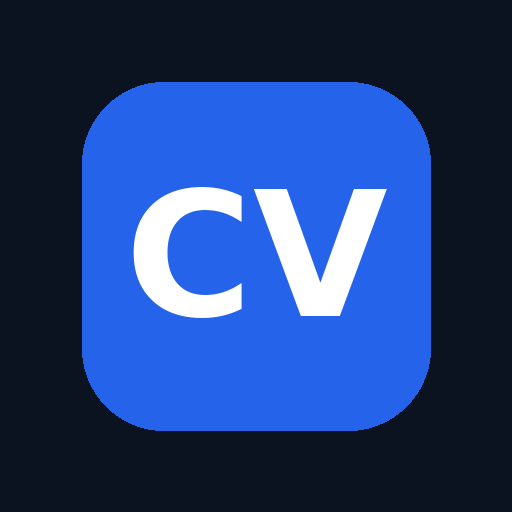
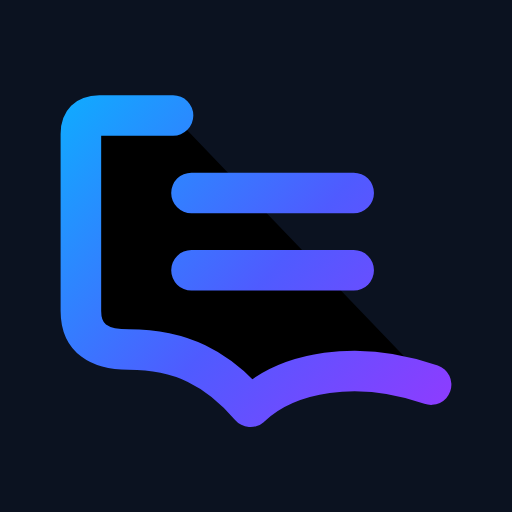
Add files via upload

diff --git a/builder.html b/builder.html
@@ -8,12 +8,13 @@
 <link href="https://fonts.googleapis.com/css2?family=Hind+Siliguri:wght@400;500;600;700&display=swap" rel="stylesheet">
 <script>(function(){try{var k=localStorage.getItem("cvtheme");if(!k)k=matchMedia("(prefers-color-scheme:dark)").matches?"dark":"light";document.documentElement.dataset.theme=k}catch(e){}})()</script>
 <meta property="og:type" content="website"><meta property="og:site_name" content="CV Studio by Qodrix"><meta property="og:title" content="CV Studio | Free CV Maker (Bangla and English)"><meta property="og:description" content="Build a professional CV in 10 minutes. Free, no login, ATS friendly."><meta property="og:image" content="https://qodrixhq.github.io/cv-studio/og.png"><meta name="twitter:card" content="summary_large_image"><meta name="theme-color" content="#0B1220">
-<link rel="manifest" href="manifest.webmanifest"><link rel="apple-touch-icon" href="icon-192.png">
-<link rel="stylesheet" href="style.css?v=13">
+<link rel="icon" href="favicon.svg" type="image/svg+xml"><link rel="icon" href="icon-192.png" sizes="192x192" type="image/png">
+<link rel="manifest" href="manifest.webmanifest"><link rel="apple-touch-icon" href="apple-touch-icon.png">
+<link rel="stylesheet" href="style.css?v=14">
 </head>
 <body  data-v="e">
 <header>
- <a class="logo" href="index.html"><span class="mark"></span><span id="tt"></span></a>
+ <a class="logo" href="index.html" aria-label="CV Studio by Qodrix"><svg class="lg-m" viewBox="0 0 214 190" fill="none" aria-hidden="true"><defs><linearGradient id="lgg" x1="8" y1="8" x2="204" y2="176" gradientUnits="userSpaceOnUse"><stop stop-color="#12A8FF"/><stop offset=".55" stop-color="#4F5BFF"/><stop offset="1" stop-color="#8B3DFF"/></linearGradient></defs><g stroke="url(#lgg)" stroke-width="22" stroke-linecap="round" stroke-linejoin="round"><path class="lgp" d="M62 16H22Q12 16 12 26V122C12 137 22 143 38 143C66 143 86 153 104 174C124 155 162 148 202 162"/><path class="lgp" d="M72 58H160M72 100H160"/></g></svg><span class="lg-t"><b>CV Studio</b><small>by Qodrix</small></span></a>
  <button class="btn ic" id="th" aria-label="Dark / Light"><svg class="i-moon" width="20" height="20" viewBox="0 0 24 24" fill="none" stroke="currentColor" stroke-width="2" stroke-linecap="round" stroke-linejoin="round" aria-hidden="true"><path d="M21 12.8A9 9 0 1111.2 3a7 7 0 009.8 9.8z"/></svg><svg class="i-sun" width="20" height="20" viewBox="0 0 24 24" fill="none" stroke="currentColor" stroke-width="2" stroke-linecap="round" stroke-linejoin="round" aria-hidden="true"><circle cx="12" cy="12" r="4"/><path d="M12 2v2M12 20v2M4.9 4.9l1.4 1.4M17.7 17.7l1.4 1.4M2 12h2M20 12h2M4.9 19.1l1.4-1.4M17.7 6.3l1.4-1.4"/></svg></button>
  <button class="btn" id="lg"></button>
  <button class="btn p" id="pdf"></button>

diff --git a/admin.html b/admin.html
@@ -8,12 +8,13 @@
 <link href="https://fonts.googleapis.com/css2?family=Hind+Siliguri:wght@400;500;600;700&display=swap" rel="stylesheet">
 <script>(function(){try{var k=localStorage.getItem("cvtheme");if(!k)k=matchMedia("(prefers-color-scheme:dark)").matches?"dark":"light";document.documentElement.dataset.theme=k}catch(e){}})()</script>
 <meta property="og:type" content="website"><meta property="og:site_name" content="CV Studio by Qodrix"><meta property="og:title" content="CV Studio | Free CV Maker (Bangla and English)"><meta property="og:description" content="Build a professional CV in 10 minutes. Free, no login, ATS friendly."><meta property="og:image" content="https://qodrixhq.github.io/cv-studio/og.png"><meta name="twitter:card" content="summary_large_image"><meta name="theme-color" content="#0B1220">
-<link rel="manifest" href="manifest.webmanifest"><link rel="apple-touch-icon" href="icon-192.png">
-<link rel="stylesheet" href="style.css?v=13">
+<link rel="icon" href="favicon.svg" type="image/svg+xml"><link rel="icon" href="icon-192.png" sizes="192x192" type="image/png">
+<link rel="manifest" href="manifest.webmanifest"><link rel="apple-touch-icon" href="apple-touch-icon.png">
+<link rel="stylesheet" href="style.css?v=14">
 </head>
 <body>
 <header>
- <a class="logo" href="index.html"><span class="mark"></span><span id="tt"></span></a>
+ <a class="logo" href="index.html" aria-label="CV Studio by Qodrix"><svg class="lg-m" viewBox="0 0 214 190" fill="none" aria-hidden="true"><defs><linearGradient id="lgg" x1="8" y1="8" x2="204" y2="176" gradientUnits="userSpaceOnUse"><stop stop-color="#12A8FF"/><stop offset=".55" stop-color="#4F5BFF"/><stop offset="1" stop-color="#8B3DFF"/></linearGradient></defs><g stroke="url(#lgg)" stroke-width="22" stroke-linecap="round" stroke-linejoin="round"><path class="lgp" d="M62 16H22Q12 16 12 26V122C12 137 22 143 38 143C66 143 86 153 104 174C124 155 162 148 202 162"/><path class="lgp" d="M72 58H160M72 100H160"/></g></svg><span class="lg-t"><b>CV Studio</b><small>by Qodrix</small></span></a>
  <button class="btn ic" id="th" aria-label="Dark / Light"><svg class="i-moon" width="20" height="20" viewBox="0 0 24 24" fill="none" stroke="currentColor" stroke-width="2" stroke-linecap="round" stroke-linejoin="round" aria-hidden="true"><path d="M21 12.8A9 9 0 1111.2 3a7 7 0 009.8 9.8z"/></svg><svg class="i-sun" width="20" height="20" viewBox="0 0 24 24" fill="none" stroke="currentColor" stroke-width="2" stroke-linecap="round" stroke-linejoin="round" aria-hidden="true"><circle cx="12" cy="12" r="4"/><path d="M12 2v2M12 20v2M4.9 4.9l1.4 1.4M17.7 17.7l1.4 1.4M2 12h2M20 12h2M4.9 19.1l1.4-1.4M17.7 6.3l1.4-1.4"/></svg></button>
  <button class="btn" id="lg"></button>
  

diff --git a/ats.html b/ats.html
@@ -8,12 +8,13 @@
 <link href="https://fonts.googleapis.com/css2?family=Hind+Siliguri:wght@400;500;600;700&display=swap" rel="stylesheet">
 <script>(function(){try{var k=localStorage.getItem("cvtheme");if(!k)k=matchMedia("(prefers-color-scheme:dark)").matches?"dark":"light";document.documentElement.dataset.theme=k}catch(e){}})()</script>
 <meta property="og:type" content="website"><meta property="og:site_name" content="CV Studio by Qodrix"><meta property="og:title" content="CV Studio | Free CV Maker (Bangla and English)"><meta property="og:description" content="Build a professional CV in 10 minutes. Free, no login, ATS friendly."><meta property="og:image" content="https://qodrixhq.github.io/cv-studio/og.png"><meta name="twitter:card" content="summary_large_image"><meta name="theme-color" content="#0B1220">
-<link rel="manifest" href="manifest.webmanifest"><link rel="apple-touch-icon" href="icon-192.png">
-<link rel="stylesheet" href="style.css?v=13">
+<link rel="icon" href="favicon.svg" type="image/svg+xml"><link rel="icon" href="icon-192.png" sizes="192x192" type="image/png">
+<link rel="manifest" href="manifest.webmanifest"><link rel="apple-touch-icon" href="apple-touch-icon.png">
+<link rel="stylesheet" href="style.css?v=14">
 </head>
 <body>
 <header>
- <a class="logo" href="index.html"><span class="mark"></span><span id="tt"></span></a>
+ <a class="logo" href="index.html" aria-label="CV Studio by Qodrix"><svg class="lg-m" viewBox="0 0 214 190" fill="none" aria-hidden="true"><defs><linearGradient id="lgg" x1="8" y1="8" x2="204" y2="176" gradientUnits="userSpaceOnUse"><stop stop-color="#12A8FF"/><stop offset=".55" stop-color="#4F5BFF"/><stop offset="1" stop-color="#8B3DFF"/></linearGradient></defs><g stroke="url(#lgg)" stroke-width="22" stroke-linecap="round" stroke-linejoin="round"><path class="lgp" d="M62 16H22Q12 16 12 26V122C12 137 22 143 38 143C66 143 86 153 104 174C124 155 162 148 202 162"/><path class="lgp" d="M72 58H160M72 100H160"/></g></svg><span class="lg-t"><b>CV Studio</b><small>by Qodrix</small></span></a>
  <button class="btn ic" id="th" aria-label="Dark / Light"><svg class="i-moon" width="20" height="20" viewBox="0 0 24 24" fill="none" stroke="currentColor" stroke-width="2" stroke-linecap="round" stroke-linejoin="round" aria-hidden="true"><path d="M21 12.8A9 9 0 1111.2 3a7 7 0 009.8 9.8z"/></svg><svg class="i-sun" width="20" height="20" viewBox="0 0 24 24" fill="none" stroke="currentColor" stroke-width="2" stroke-linecap="round" stroke-linejoin="round" aria-hidden="true"><circle cx="12" cy="12" r="4"/><path d="M12 2v2M12 20v2M4.9 4.9l1.4 1.4M17.7 17.7l1.4 1.4M2 12h2M20 12h2M4.9 19.1l1.4-1.4M17.7 6.3l1.4-1.4"/></svg></button>
  <button class="btn" id="lg"></button>
  

diff --git a/contact.html b/contact.html
@@ -8,12 +8,13 @@
 <link href="https://fonts.googleapis.com/css2?family=Hind+Siliguri:wght@400;500;600;700&display=swap" rel="stylesheet">
 <script>(function(){try{var k=localStorage.getItem("cvtheme");if(!k)k=matchMedia("(prefers-color-scheme:dark)").matches?"dark":"light";document.documentElement.dataset.theme=k}catch(e){}})()</script>
 <meta property="og:type" content="website"><meta property="og:site_name" content="CV Studio by Qodrix"><meta property="og:title" content="CV Studio | Free CV Maker (Bangla and English)"><meta property="og:description" content="Build a professional CV in 10 minutes. Free, no login, ATS friendly."><meta property="og:image" content="https://qodrixhq.github.io/cv-studio/og.png"><meta name="twitter:card" content="summary_large_image"><meta name="theme-color" content="#0B1220">
-<link rel="manifest" href="manifest.webmanifest"><link rel="apple-touch-icon" href="icon-192.png">
-<link rel="stylesheet" href="style.css?v=13">
+<link rel="icon" href="favicon.svg" type="image/svg+xml"><link rel="icon" href="icon-192.png" sizes="192x192" type="image/png">
+<link rel="manifest" href="manifest.webmanifest"><link rel="apple-touch-icon" href="apple-touch-icon.png">
+<link rel="stylesheet" href="style.css?v=14">
 </head>
 <body>
 <header>
- <a class="logo" href="index.html"><span class="mark"></span><span id="tt"></span></a>
+ <a class="logo" href="index.html" aria-label="CV Studio by Qodrix"><svg class="lg-m" viewBox="0 0 214 190" fill="none" aria-hidden="true"><defs><linearGradient id="lgg" x1="8" y1="8" x2="204" y2="176" gradientUnits="userSpaceOnUse"><stop stop-color="#12A8FF"/><stop offset=".55" stop-color="#4F5BFF"/><stop offset="1" stop-color="#8B3DFF"/></linearGradient></defs><g stroke="url(#lgg)" stroke-width="22" stroke-linecap="round" stroke-linejoin="round"><path class="lgp" d="M62 16H22Q12 16 12 26V122C12 137 22 143 38 143C66 143 86 153 104 174C124 155 162 148 202 162"/><path class="lgp" d="M72 58H160M72 100H160"/></g></svg><span class="lg-t"><b>CV Studio</b><small>by Qodrix</small></span></a>
  <button class="btn ic" id="th" aria-label="Dark / Light"><svg class="i-moon" width="20" height="20" viewBox="0 0 24 24" fill="none" stroke="currentColor" stroke-width="2" stroke-linecap="round" stroke-linejoin="round" aria-hidden="true"><path d="M21 12.8A9 9 0 1111.2 3a7 7 0 009.8 9.8z"/></svg><svg class="i-sun" width="20" height="20" viewBox="0 0 24 24" fill="none" stroke="currentColor" stroke-width="2" stroke-linecap="round" stroke-linejoin="round" aria-hidden="true"><circle cx="12" cy="12" r="4"/><path d="M12 2v2M12 20v2M4.9 4.9l1.4 1.4M17.7 17.7l1.4 1.4M2 12h2M20 12h2M4.9 19.1l1.4-1.4M17.7 6.3l1.4-1.4"/></svg></button>
  <button class="btn" id="lg"></button>
  

diff --git a/cover-letter.html b/cover-letter.html
@@ -8,12 +8,13 @@
 <link href="https://fonts.googleapis.com/css2?family=Hind+Siliguri:wght@400;500;600;700&display=swap" rel="stylesheet">
 <script>(function(){try{var k=localStorage.getItem("cvtheme");if(!k)k=matchMedia("(prefers-color-scheme:dark)").matches?"dark":"light";document.documentElement.dataset.theme=k}catch(e){}})()</script>
 <meta property="og:type" content="website"><meta property="og:site_name" content="CV Studio by Qodrix"><meta property="og:title" content="CV Studio | Free CV Maker (Bangla and English)"><meta property="og:description" content="Build a professional CV in 10 minutes. Free, no login, ATS friendly."><meta property="og:image" content="https://qodrixhq.github.io/cv-studio/og.png"><meta name="twitter:card" content="summary_large_image"><meta name="theme-color" content="#0B1220">
-<link rel="manifest" href="manifest.webmanifest"><link rel="apple-touch-icon" href="icon-192.png">
-<link rel="stylesheet" href="style.css?v=13">
+<link rel="icon" href="favicon.svg" type="image/svg+xml"><link rel="icon" href="icon-192.png" sizes="192x192" type="image/png">
+<link rel="manifest" href="manifest.webmanifest"><link rel="apple-touch-icon" href="apple-touch-icon.png">
+<link rel="stylesheet" href="style.css?v=14">
 </head>
 <body>
 <header>
- <a class="logo" href="index.html"><span class="mark"></span><span id="tt"></span></a>
+ <a class="logo" href="index.html" aria-label="CV Studio by Qodrix"><svg class="lg-m" viewBox="0 0 214 190" fill="none" aria-hidden="true"><defs><linearGradient id="lgg" x1="8" y1="8" x2="204" y2="176" gradientUnits="userSpaceOnUse"><stop stop-color="#12A8FF"/><stop offset=".55" stop-color="#4F5BFF"/><stop offset="1" stop-color="#8B3DFF"/></linearGradient></defs><g stroke="url(#lgg)" stroke-width="22" stroke-linecap="round" stroke-linejoin="round"><path class="lgp" d="M62 16H22Q12 16 12 26V122C12 137 22 143 38 143C66 143 86 153 104 174C124 155 162 148 202 162"/><path class="lgp" d="M72 58H160M72 100H160"/></g></svg><span class="lg-t"><b>CV Studio</b><small>by Qodrix</small></span></a>
  <button class="btn ic" id="th" aria-label="Dark / Light"><svg class="i-moon" width="20" height="20" viewBox="0 0 24 24" fill="none" stroke="currentColor" stroke-width="2" stroke-linecap="round" stroke-linejoin="round" aria-hidden="true"><path d="M21 12.8A9 9 0 1111.2 3a7 7 0 009.8 9.8z"/></svg><svg class="i-sun" width="20" height="20" viewBox="0 0 24 24" fill="none" stroke="currentColor" stroke-width="2" stroke-linecap="round" stroke-linejoin="round" aria-hidden="true"><circle cx="12" cy="12" r="4"/><path d="M12 2v2M12 20v2M4.9 4.9l1.4 1.4M17.7 17.7l1.4 1.4M2 12h2M20 12h2M4.9 19.1l1.4-1.4M17.7 6.3l1.4-1.4"/></svg></button>
  <button class="btn" id="lg"></button>
  

diff --git a/guide.html b/guide.html
@@ -8,12 +8,13 @@
 <link href="https://fonts.googleapis.com/css2?family=Hind+Siliguri:wght@400;500;600;700&display=swap" rel="stylesheet">
 <script>(function(){try{var k=localStorage.getItem("cvtheme");if(!k)k=matchMedia("(prefers-color-scheme:dark)").matches?"dark":"light";document.documentElement.dataset.theme=k}catch(e){}})()</script>
 <meta property="og:type" content="website"><meta property="og:site_name" content="CV Studio by Qodrix"><meta property="og:title" content="CV Studio | Free CV Maker (Bangla and English)"><meta property="og:description" content="Build a professional CV in 10 minutes. Free, no login, ATS friendly."><meta property="og:image" content="https://qodrixhq.github.io/cv-studio/og.png"><meta name="twitter:card" content="summary_large_image"><meta name="theme-color" content="#0B1220">
-<link rel="manifest" href="manifest.webmanifest"><link rel="apple-touch-icon" href="icon-192.png">
-<link rel="stylesheet" href="style.css?v=13">
+<link rel="icon" href="favicon.svg" type="image/svg+xml"><link rel="icon" href="icon-192.png" sizes="192x192" type="image/png">
+<link rel="manifest" href="manifest.webmanifest"><link rel="apple-touch-icon" href="apple-touch-icon.png">
+<link rel="stylesheet" href="style.css?v=14">
 </head>
 <body>
 <header>
- <a class="logo" href="index.html"><span class="mark"></span><span id="tt"></span></a>
+ <a class="logo" href="index.html" aria-label="CV Studio by Qodrix"><svg class="lg-m" viewBox="0 0 214 190" fill="none" aria-hidden="true"><defs><linearGradient id="lgg" x1="8" y1="8" x2="204" y2="176" gradientUnits="userSpaceOnUse"><stop stop-color="#12A8FF"/><stop offset=".55" stop-color="#4F5BFF"/><stop offset="1" stop-color="#8B3DFF"/></linearGradient></defs><g stroke="url(#lgg)" stroke-width="22" stroke-linecap="round" stroke-linejoin="round"><path class="lgp" d="M62 16H22Q12 16 12 26V122C12 137 22 143 38 143C66 143 86 153 104 174C124 155 162 148 202 162"/><path class="lgp" d="M72 58H160M72 100H160"/></g></svg><span class="lg-t"><b>CV Studio</b><small>by Qodrix</small></span></a>
  <button class="btn ic" id="th" aria-label="Dark / Light"><svg class="i-moon" width="20" height="20" viewBox="0 0 24 24" fill="none" stroke="currentColor" stroke-width="2" stroke-linecap="round" stroke-linejoin="round" aria-hidden="true"><path d="M21 12.8A9 9 0 1111.2 3a7 7 0 009.8 9.8z"/></svg><svg class="i-sun" width="20" height="20" viewBox="0 0 24 24" fill="none" stroke="currentColor" stroke-width="2" stroke-linecap="round" stroke-linejoin="round" aria-hidden="true"><circle cx="12" cy="12" r="4"/><path d="M12 2v2M12 20v2M4.9 4.9l1.4 1.4M17.7 17.7l1.4 1.4M2 12h2M20 12h2M4.9 19.1l1.4-1.4M17.7 6.3l1.4-1.4"/></svg></button>
  <button class="btn" id="lg"></button>
  

diff --git a/index.html b/index.html
@@ -8,12 +8,13 @@
 <link href="https://fonts.googleapis.com/css2?family=Hind+Siliguri:wght@400;500;600;700&display=swap" rel="stylesheet">
 <script>(function(){try{var k=localStorage.getItem("cvtheme");if(!k)k=matchMedia("(prefers-color-scheme:dark)").matches?"dark":"light";document.documentElement.dataset.theme=k}catch(e){}})()</script>
 <meta property="og:type" content="website"><meta property="og:site_name" content="CV Studio by Qodrix"><meta property="og:title" content="CV Studio | Free CV Maker (Bangla and English)"><meta property="og:description" content="Build a professional CV in 10 minutes. Free, no login, ATS friendly."><meta property="og:image" content="https://qodrixhq.github.io/cv-studio/og.png"><meta name="twitter:card" content="summary_large_image"><meta name="theme-color" content="#0B1220">
-<link rel="manifest" href="manifest.webmanifest"><link rel="apple-touch-icon" href="icon-192.png">
-<link rel="stylesheet" href="style.css?v=13">
+<link rel="icon" href="favicon.svg" type="image/svg+xml"><link rel="icon" href="icon-192.png" sizes="192x192" type="image/png">
+<link rel="manifest" href="manifest.webmanifest"><link rel="apple-touch-icon" href="apple-touch-icon.png">
+<link rel="stylesheet" href="style.css?v=14">
 </head>
 <body>
 <header>
- <a class="logo" href="index.html"><span class="mark"></span><span id="tt"></span></a>
+ <a class="logo" href="index.html" aria-label="CV Studio by Qodrix"><svg class="lg-m" viewBox="0 0 214 190" fill="none" aria-hidden="true"><defs><linearGradient id="lgg" x1="8" y1="8" x2="204" y2="176" gradientUnits="userSpaceOnUse"><stop stop-color="#12A8FF"/><stop offset=".55" stop-color="#4F5BFF"/><stop offset="1" stop-color="#8B3DFF"/></linearGradient></defs><g stroke="url(#lgg)" stroke-width="22" stroke-linecap="round" stroke-linejoin="round"><path class="lgp" d="M62 16H22Q12 16 12 26V122C12 137 22 143 38 143C66 143 86 153 104 174C124 155 162 148 202 162"/><path class="lgp" d="M72 58H160M72 100H160"/></g></svg><span class="lg-t"><b>CV Studio</b><small>by Qodrix</small></span></a>
  <button class="btn ic" id="th" aria-label="Dark / Light"><svg class="i-moon" width="20" height="20" viewBox="0 0 24 24" fill="none" stroke="currentColor" stroke-width="2" stroke-linecap="round" stroke-linejoin="round" aria-hidden="true"><path d="M21 12.8A9 9 0 1111.2 3a7 7 0 009.8 9.8z"/></svg><svg class="i-sun" width="20" height="20" viewBox="0 0 24 24" fill="none" stroke="currentColor" stroke-width="2" stroke-linecap="round" stroke-linejoin="round" aria-hidden="true"><circle cx="12" cy="12" r="4"/><path d="M12 2v2M12 20v2M4.9 4.9l1.4 1.4M17.7 17.7l1.4 1.4M2 12h2M20 12h2M4.9 19.1l1.4-1.4M17.7 6.3l1.4-1.4"/></svg></button>
  <button class="btn" id="lg"></button>
  

diff --git a/privacy.html b/privacy.html
@@ -8,12 +8,13 @@
 <link href="https://fonts.googleapis.com/css2?family=Hind+Siliguri:wght@400;500;600;700&display=swap" rel="stylesheet">
 <script>(function(){try{var k=localStorage.getItem("cvtheme");if(!k)k=matchMedia("(prefers-color-scheme:dark)").matches?"dark":"light";document.documentElement.dataset.theme=k}catch(e){}})()</script>
 <meta property="og:type" content="website"><meta property="og:site_name" content="CV Studio by Qodrix"><meta property="og:title" content="CV Studio | Free CV Maker (Bangla and English)"><meta property="og:description" content="Build a professional CV in 10 minutes. Free, no login, ATS friendly."><meta property="og:image" content="https://qodrixhq.github.io/cv-studio/og.png"><meta name="twitter:card" content="summary_large_image"><meta name="theme-color" content="#0B1220">
-<link rel="manifest" href="manifest.webmanifest"><link rel="apple-touch-icon" href="icon-192.png">
-<link rel="stylesheet" href="style.css?v=13">
+<link rel="icon" href="favicon.svg" type="image/svg+xml"><link rel="icon" href="icon-192.png" sizes="192x192" type="image/png">
+<link rel="manifest" href="manifest.webmanifest"><link rel="apple-touch-icon" href="apple-touch-icon.png">
+<link rel="stylesheet" href="style.css?v=14">
 </head>
 <body>
 <header>
- <a class="logo" href="index.html"><span class="mark"></span><span id="tt"></span></a>
+ <a class="logo" href="index.html" aria-label="CV Studio by Qodrix"><svg class="lg-m" viewBox="0 0 214 190" fill="none" aria-hidden="true"><defs><linearGradient id="lgg" x1="8" y1="8" x2="204" y2="176" gradientUnits="userSpaceOnUse"><stop stop-color="#12A8FF"/><stop offset=".55" stop-color="#4F5BFF"/><stop offset="1" stop-color="#8B3DFF"/></linearGradient></defs><g stroke="url(#lgg)" stroke-width="22" stroke-linecap="round" stroke-linejoin="round"><path class="lgp" d="M62 16H22Q12 16 12 26V122C12 137 22 143 38 143C66 143 86 153 104 174C124 155 162 148 202 162"/><path class="lgp" d="M72 58H160M72 100H160"/></g></svg><span class="lg-t"><b>CV Studio</b><small>by Qodrix</small></span></a>
  <button class="btn ic" id="th" aria-label="Dark / Light"><svg class="i-moon" width="20" height="20" viewBox="0 0 24 24" fill="none" stroke="currentColor" stroke-width="2" stroke-linecap="round" stroke-linejoin="round" aria-hidden="true"><path d="M21 12.8A9 9 0 1111.2 3a7 7 0 009.8 9.8z"/></svg><svg class="i-sun" width="20" height="20" viewBox="0 0 24 24" fill="none" stroke="currentColor" stroke-width="2" stroke-linecap="round" stroke-linejoin="round" aria-hidden="true"><circle cx="12" cy="12" r="4"/><path d="M12 2v2M12 20v2M4.9 4.9l1.4 1.4M17.7 17.7l1.4 1.4M2 12h2M20 12h2M4.9 19.1l1.4-1.4M17.7 6.3l1.4-1.4"/></svg></button>
  <button class="btn" id="lg"></button>
  

diff --git a/style.css b/style.css
@@ -624,3 +624,11 @@ body[data-v=v] .bar::before{transform:translateX(100%)}.bar button.on{background
 html,body{max-width:100%;overflow-x:clip}
 #wrap{contain:layout paint}
 #sheets{position:absolute;left:0;top:0}
+
+/* ===== v15: Qodrix logo system ===== */
+.logo{display:flex;align-items:center;gap:10px;text-decoration:none;color:inherit;min-width:0}
+.lg-m{width:36px;height:32px;flex:none;overflow:visible}
+.lg-t{display:flex;flex-direction:column;line-height:1.05;min-width:0}.lg-t b{font-size:19px;font-weight:700;letter-spacing:-.01em;white-space:nowrap}.lg-t small{font-size:10.5px;font-weight:500;color:var(--mute);letter-spacing:.14em;margin-top:2px}
+.lgp{stroke-dasharray:420;stroke-dashoffset:420;animation:lgd 1.1s .1s cubic-bezier(.4,0,.2,1) forwards}.lgp+.lgp{animation-delay:.35s}
+@keyframes lgd{to{stroke-dashoffset:0}}
+@media(prefers-reduced-motion:reduce){.lgp{animation:none;stroke-dashoffset:0}}
